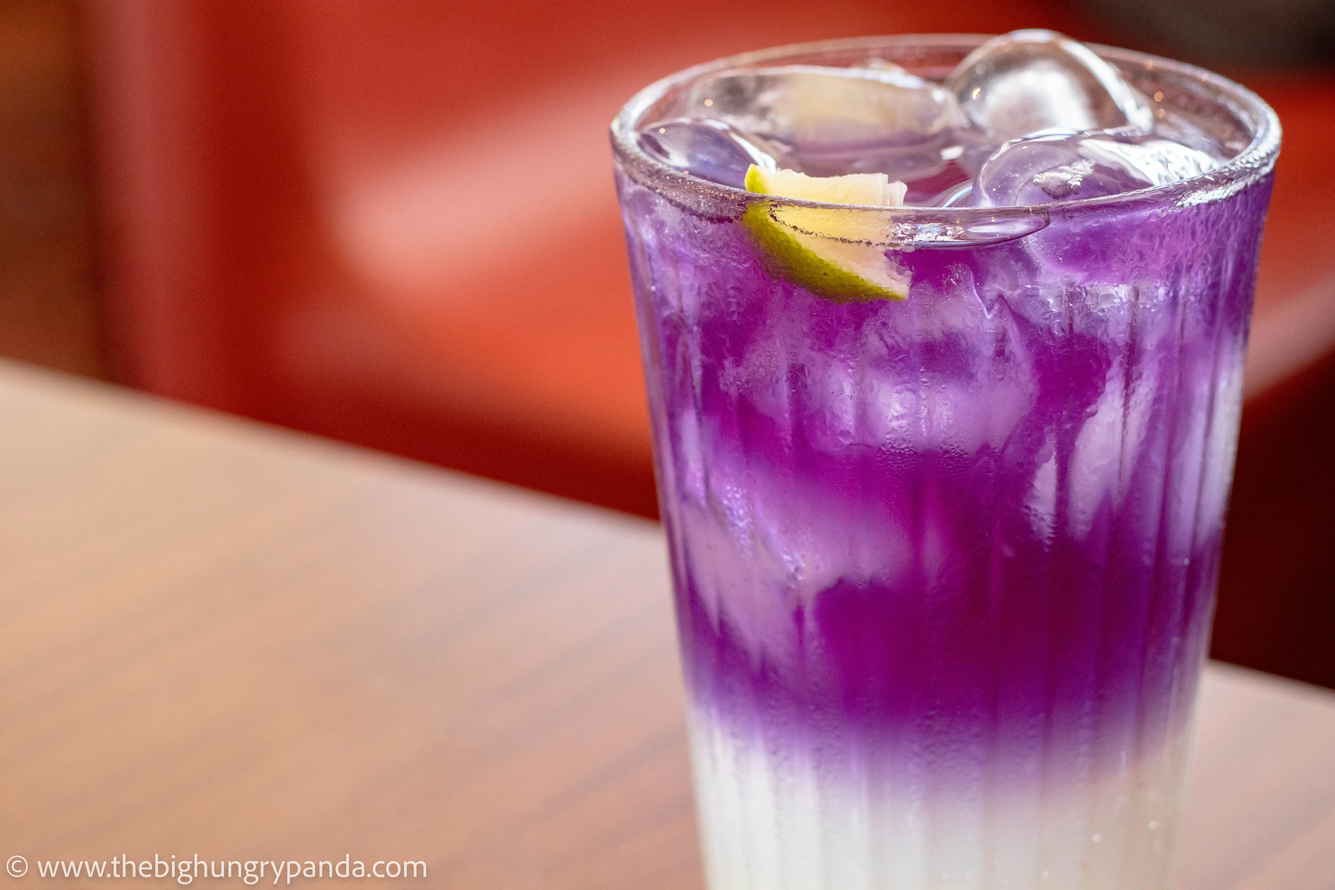
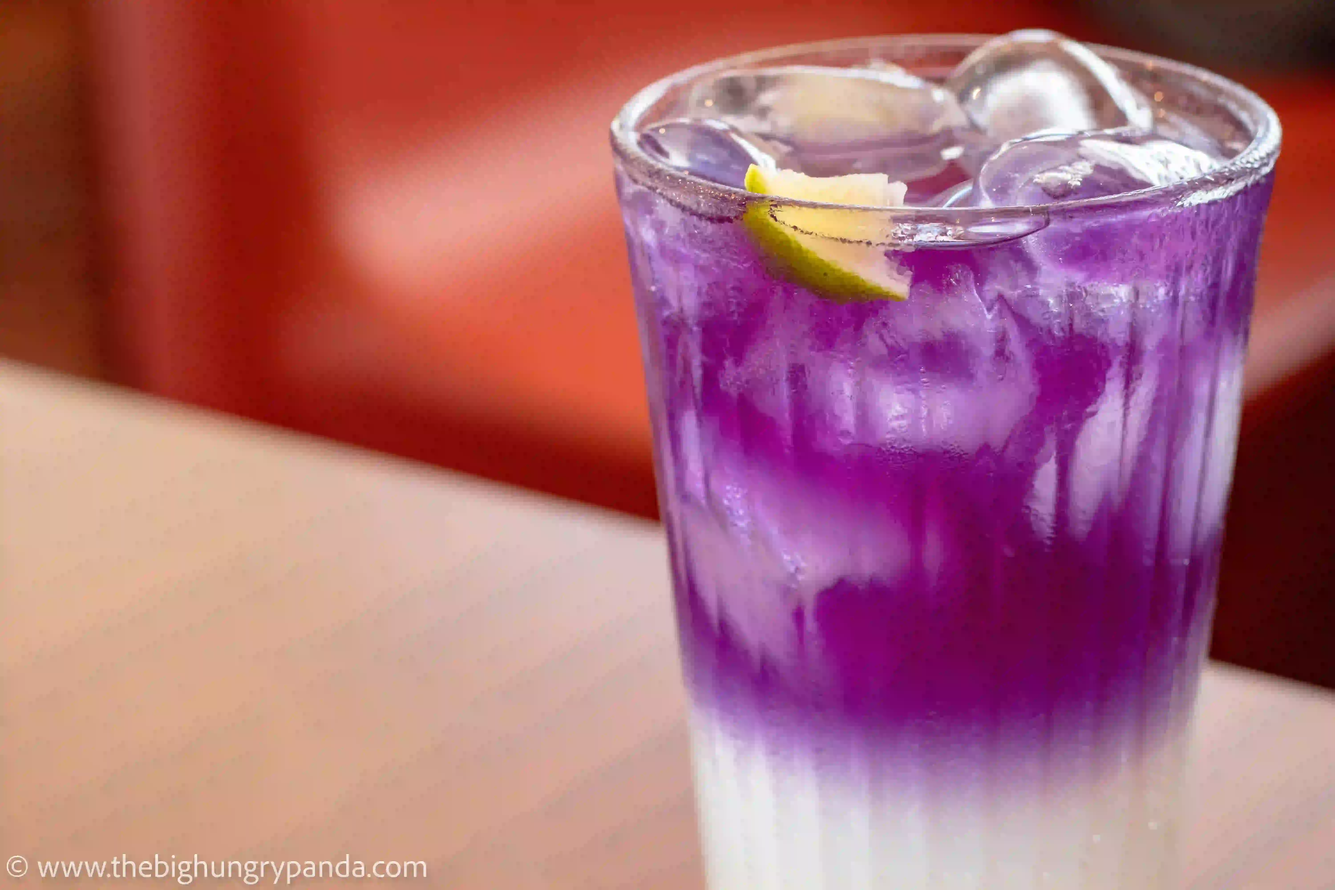
Compressed Few Images

Changed region(s): [[0.5298, 0.2188, 0.5922, 0.25], [0.6857, 0.25, 0.7168, 0.2812]]

diff --git a/reviews/Mangalore/index.html b/reviews/Mangalore/index.html
@@ -109,7 +109,7 @@
             <!-- TLC Art Cafe -->
             <a href="../../reviews/Mangalore/TLC Art Cafe/index.html">
                 <div class="restaurant-card h-64 rounded-2xl">
-                    <img src="../../assets/images/Restaurants/TLCCafe.png" alt="TLC Cafe" class="w-full h-full object-contain rounded-2xl">
+                    <img src="../../assets/images/Restaurants/TLCCafe.webp" alt="TLC Cafe" class="w-full h-full object-contain rounded-2xl">
                 </div>
             </a>
 
@@ -151,7 +151,7 @@
             <!-- K9 Resto -->
             <a href="../../reviews/Mangalore/K9 Resto Cafe/index.html">
                 <div class="restaurant-card h-64 rounded-2xl">
-                    <img src="../../assets/images/Restaurants/K9.png" alt="K9 Resto Cafe" class="w-full h-full object-contain rounded-2xl">
+                    <img src="../../assets/images/Restaurants/K9.webp" alt="K9 Resto Cafe" class="w-full h-full object-contain rounded-2xl">
                 </div>
             </a>
 

diff --git a/reviews/Mangalore/Buco/index.html b/reviews/Mangalore/Buco/index.html
@@ -103,7 +103,7 @@
                 <!-- Hero Image -->
                 <div class="fade-in mb-8">
                     <section class="relative w-full h-[250px] m:h-[400px] md:h-[500px] flex items-center justify-center bg-gray-100 rounded-2xl overflow-hidden mb-16">
-                        <img src="../../../reviews/Mangalore/Buco/Buco Int.jpeg" 
+                        <img src="../../../reviews/Mangalore/Buco/Buco Int.webp" 
                             alt="Restaurant Interior" 
                             class="w-full h-full object-cover">
                     </section>

diff --git a/index.html b/index.html
@@ -40,6 +40,8 @@
     <meta name="twitter:description" content="Big appetite. Bigger stories. Discover food reviews, hidden gems, and culinary tales from Asia." />
     <meta name="twitter:image" content="https://bighungrypanda.com/assets/images/twittercard.png" />
 
+    <meta name="keywords" content="best chennai food blogs, food reviews in India, The big hungry panda, big hungry panda, hungry panda, travel food stories, Best places to eat in India">
+
     <link rel="stylesheet" href="assets/css/style.css">
 </head>
 

diff --git a/reviews/Bangalore/index.html b/reviews/Bangalore/index.html
@@ -95,7 +95,7 @@
             <!-- Toit -->
             <a href="../../reviews/Bangalore/Toit/index.html">
                 <div class="restaurant-card h-64 rounded-2xl">
-                    <img src="../../assets/images/Restaurants/Toit.png" alt="Toit" class="w-full h-full object-contain rounded-2xl">
+                    <img src="../../assets/images/Restaurants/Toit.webp" alt="Toit" class="w-full h-full object-contain rounded-2xl">
                 </div>
             </a>
 

diff --git a/reviews/Chennai/Samchon Bunsik/index.html b/reviews/Chennai/Samchon Bunsik/index.html
@@ -25,6 +25,8 @@
     <meta name="twitter:description" content="" />
     <meta name="twitter:image" content="https://bighungrypanda.com/assets/images/twittercard.png" />
 
+    <meta name="keywords" content="Korean Food, Cafe reviews, Korean Street Food, Chennai cafes, The Big Hungry Panda, travel food stories, Best Dalgona Latte, best crispy fried chicken">
+
     <link rel="stylesheet" href="../../../assets/css/style.css">
 </head>
 
